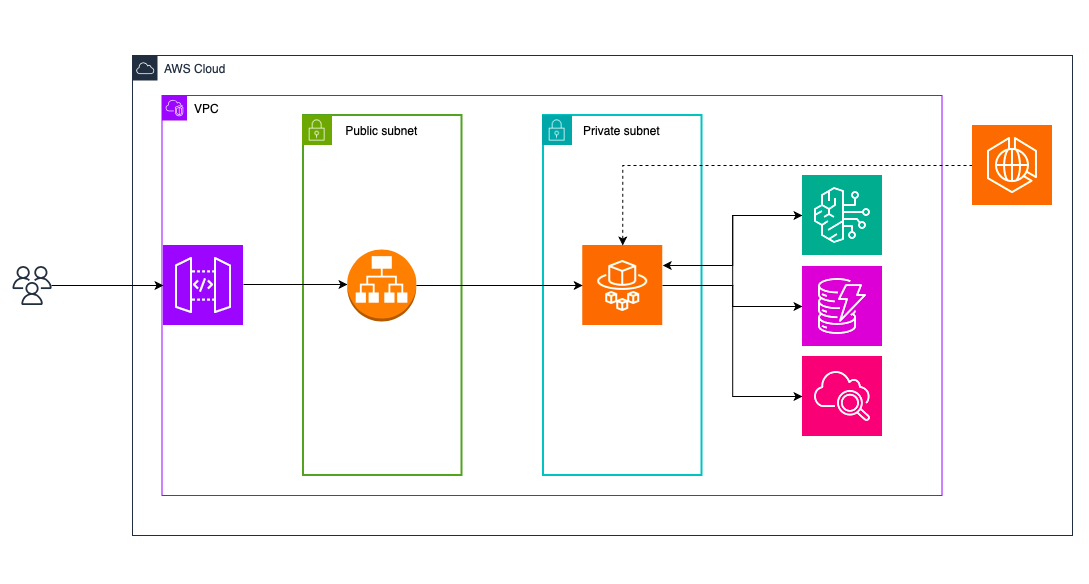
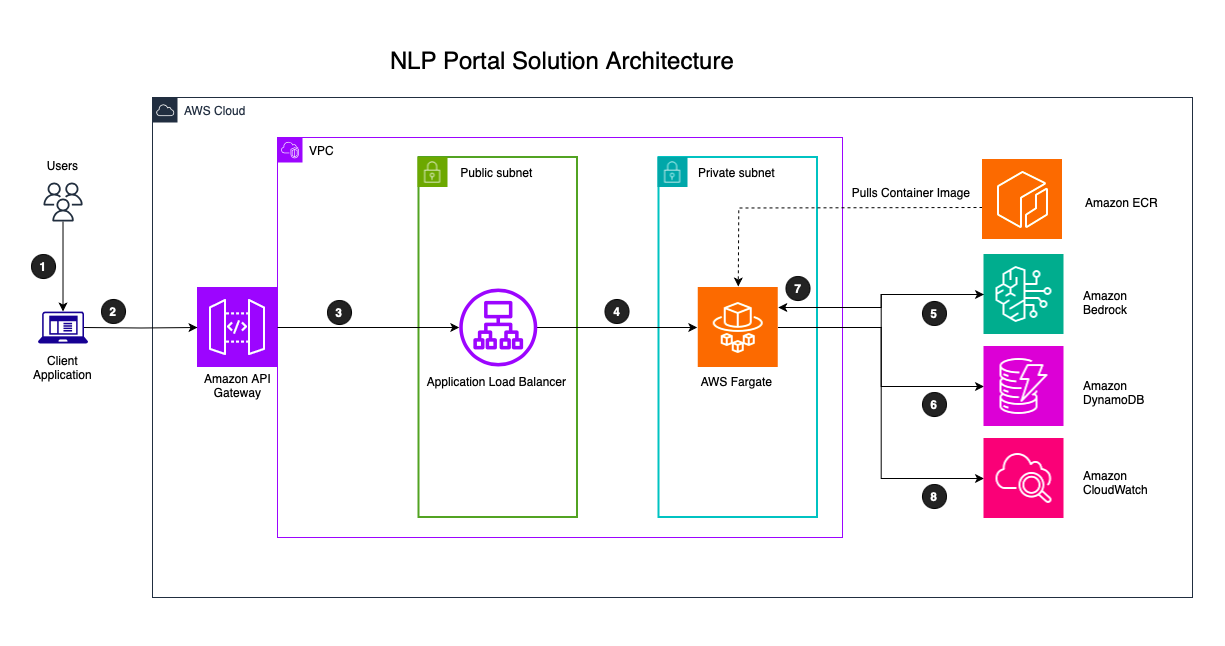
update all new artifacts

Changed region(s): [[0.0, 0.1849, 0.9679, 0.863], [0.0937, 0.0616, 0.9679, 0.2158], [0.1249, 0.8938, 0.9991, 0.9247]]

diff --git a/main.py b/main.py
@@ -1,0 +1,126 @@
+import boto3
+import json
+import os
+from fastapi import FastAPI, HTTPException
+from pydantic import BaseModel
+
+app = FastAPI(title="GenAI NLP API")
+
+# Environment configuration
+AWS_REGION = os.environ.get("AWS_REGION", "us-east-1")
+DYNAMODB_TABLE = os.environ.get("DYNAMODB_TABLE", "translation_log")
+
+# Initialize AWS clients
+bedrock_runtime = boto3.client("bedrock-runtime", region_name=AWS_REGION)
+dynamodb = boto3.resource("dynamodb", region_name=AWS_REGION)
+table = dynamodb.Table(DYNAMODB_TABLE)
+
+# Request models for various endpoints
+class TranslationRequest(BaseModel):
+    text: str
+    target_language: str
+
+class TextRequest(BaseModel):
+    text: str
+
+# New ChatRequest model replacing the earlier QA model.
+class ChatRequest(BaseModel):
+    prompt: str
+
+# Helper for invoking the Bedrock model
+def invoke_model_with_prompt(prompt: str) -> str:
+    body = json.dumps({
+        "prompt": f"\n\nHuman: {prompt}\n\nAssistant:",
+        "max_tokens_to_sample": 500,
+    })
+    try:
+        response = bedrock_runtime.invoke_model(
+            body=body,
+            modelId="anthropic.claude-v2",
+            accept="application/json",
+            contentType="application/json"
+        )
+        result = json.loads(response.get("body").read())
+        return result.get("completion", "").strip()
+    except Exception as e:
+        raise HTTPException(status_code=500, detail=f"Model invocation failed: {e}")
+
+# Helper for logging to DynamoDB
+def log_request(module: str, record: dict):
+    try:
+        record["module"] = module
+        table.put_item(Item=record)
+    except Exception as e:
+        print(f"Error logging {module} request to DynamoDB: {e}")
+
+@app.get("/")
+def read_root():
+    return {"status": "ok", "message": "GenAI NLP API is running"}
+
+@app.post("/translate")
+def translate_text(request: TranslationRequest):
+    prompt = f"Translate the following text to {request.target_language}: {request.text}"
+    translated_text = invoke_model_with_prompt(prompt)
+
+    log_request("translation", {
+        "requestId": str(hash(request.text)),
+        "original_text": request.text,
+        "target_language": request.target_language,
+        "result": translated_text
+    })
+
+    return {"translated_text": translated_text}
+
+@app.post("/sentiment")
+def sentiment_analysis(request: TextRequest):
+    prompt = f"Analyze the sentiment of the following text and describe whether it is positive, negative, or neutral: {request.text}"
+    sentiment = invoke_model_with_prompt(prompt)
+
+    log_request("sentiment", {
+        "requestId": str(hash(request.text)),
+        "original_text": request.text,
+        "result": sentiment
+    })
+    
+    return {"sentiment": sentiment}
+
+# New chat prompt endpoint replacing the earlier QA endpoint.
+@app.post("/chat")
+def chat_prompt(request: ChatRequest):
+    # Here, we treat the incoming prompt as the entire conversational input.
+    chat_response = invoke_model_with_prompt(request.prompt)
+    
+    log_request("chat", {
+        "requestId": str(hash(request.prompt)),
+        "prompt": request.prompt,
+        "result": chat_response
+    })
+    
+    return {"chat_response": chat_response}
+
+@app.post("/ner")
+def named_entity_recognition(request: TextRequest):
+    prompt = f"Identify and list the named entities (such as people, organizations, locations) in the following text: {request.text}"
+    entities = invoke_model_with_prompt(prompt)
+
+    log_request("ner", {
+        "requestId": str(hash(request.text)),
+        "original_text": request.text,
+        "result": entities
+    })
+    
+    return {"named_entities": entities}
+
+@app.post("/summarize")
+def text_summarization(request: TextRequest):
+    prompt = f"Summarize the following text concisely: {request.text}"
+    summary = invoke_model_with_prompt(prompt)
+
+    log_request("summarization", {
+        "requestId": str(hash(request.text)),
+        "original_text": request.text,
+        "result": summary
+    })
+    
+    return {"summary": summary}
+

diff --git a/main_bk.py b/main_bk.py
@@ -1,0 +1,54 @@
+import boto3
+import json
+import os
+from fastapi import FastAPI
+from pydantic import BaseModel
+
+app = FastAPI()
+
+# Get the AWS region and table name from environment variables
+AWS_REGION = os.environ.get('AWS_REGION', 'us-east-1')
+DYNAMODB_TABLE = os.environ.get('DYNAMODB_TABLE', 'translation_log')
+
+bedrock_runtime = boto3.client('bedrock-runtime', region_name=AWS_REGION)
+dynamodb = boto3.resource('dynamodb', region_name=AWS_REGION)
+table = dynamodb.Table(DYNAMODB_TABLE)
+
+class TranslationRequest(BaseModel):
+    text: str
+    target_language: str = "Spanish"
+
+@app.get("/")
+def read_root():
+    return {"status": "ok", "message": "GenAI NLP API is running"}
+
+@app.post("/translate")
+def translate_text(request: TranslationRequest):
+    prompt = f"Translate the following text to {request.target_language}: {request.text}"
+
+    body = json.dumps({
+        "prompt": f"\n\nHuman: {prompt}\n\nAssistant:",
+        "max_tokens_to_sample": 500,
+    })
+
+    # Invoke Bedrock model
+    response = bedrock_runtime.invoke_model(
+        body=body, 
+        modelId='anthropic.claude-v2',
+        accept='application/json',
+        contentType='application/json'
+    )
+    result = json.loads(response.get('body').read())
+    translated_text = result.get('completion').strip()
+
+    # Log to DynamoDB
+    table.put_item(
+        Item={
+            'requestId': str(hash(request.text)), # Simple unique ID
+            'original_text': request.text,
+            'translated_text': translated_text,
+            'target_language': request.target_language
+        }
+    )
+
+    return {"translated_text": translated_text}
